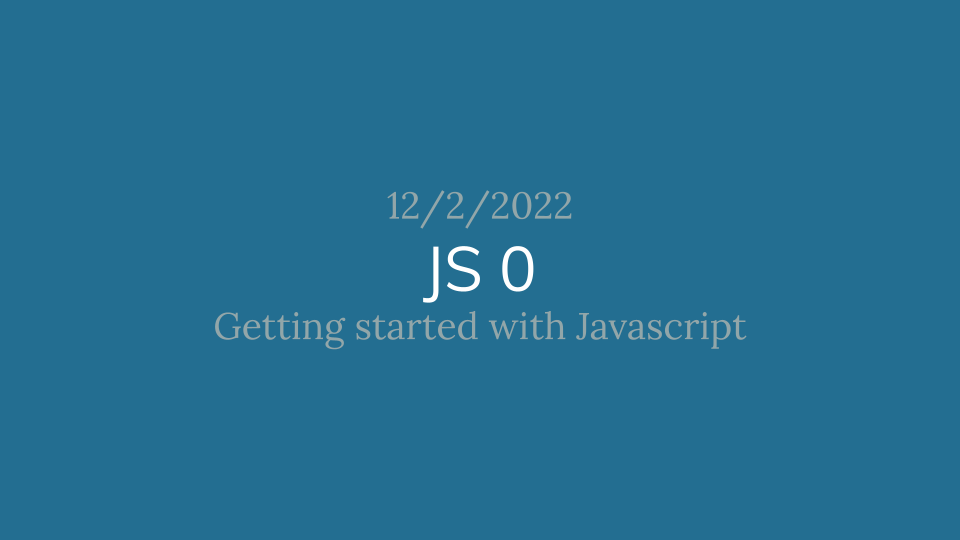
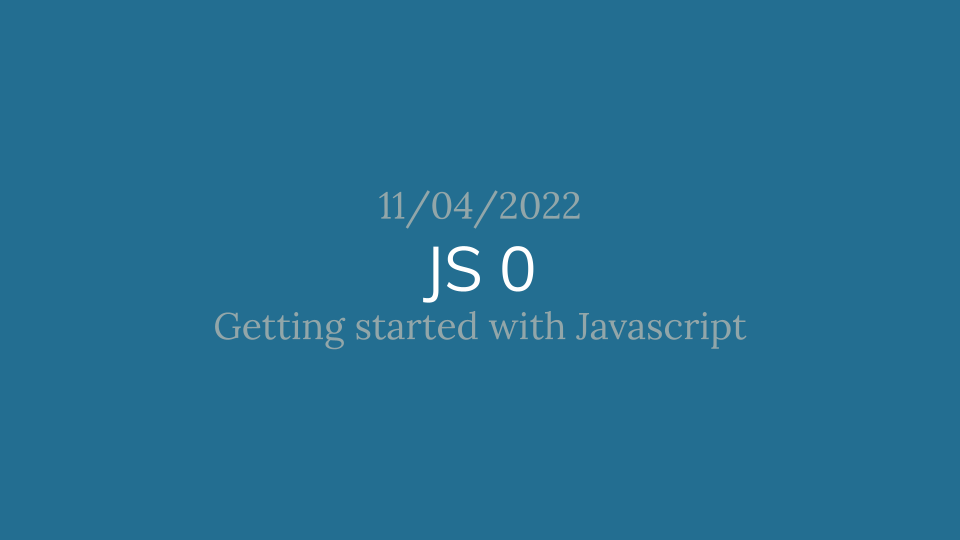
fix dates

Changed region(s): [[0.375, 0.3556, 0.625, 0.4148]]

diff --git a/index.html b/index.html
@@ -144,7 +144,7 @@ Provide a supportive and fun environment to learn computer science and help clos
                 <div class="portfolio-item mx-auto" data-toggle="modal" data-target="#portfolioModalJS0">
                     <div class="portfolio-item-caption d-flex align-items-center justify-content-center h-100 w-100">
                         <div class="portfolio-item-caption-content text-center text-white"><i class="fas fa-plus fa-3x"></i></div>
-                    </div><img class="img-fluid" src="assets/img/js0.png" alt="[4] JS 0 | 11/03/22"/>
+                    </div><img class="img-fluid" src="assets/img/js0.png" alt="[4] JS 0 | 11/04/22"/>
                 </div>
             </div>
               <!--  <div class="col-md-6 col-lg-4 mb-5">
@@ -473,7 +473,7 @@ Provide a supportive and fun environment to learn computer science and help clos
                             <div class="row justify-content-center">
                                 <div class="col-lg-8">
                                     <!-- Events Modal - Title-->
-                                    <h2 class="portfolio-modal-title text-secondary mb-0">[4] JS 0 | 11/03/22</h2>
+                                    <h2 class="portfolio-modal-title text-secondary mb-0">[4] JS 0 | 11/04/22</h2>
                                     <!-- Icon Divider-->
                                     <div class="divider-custom">
                                         <div class="divider-custom-line"></div>
